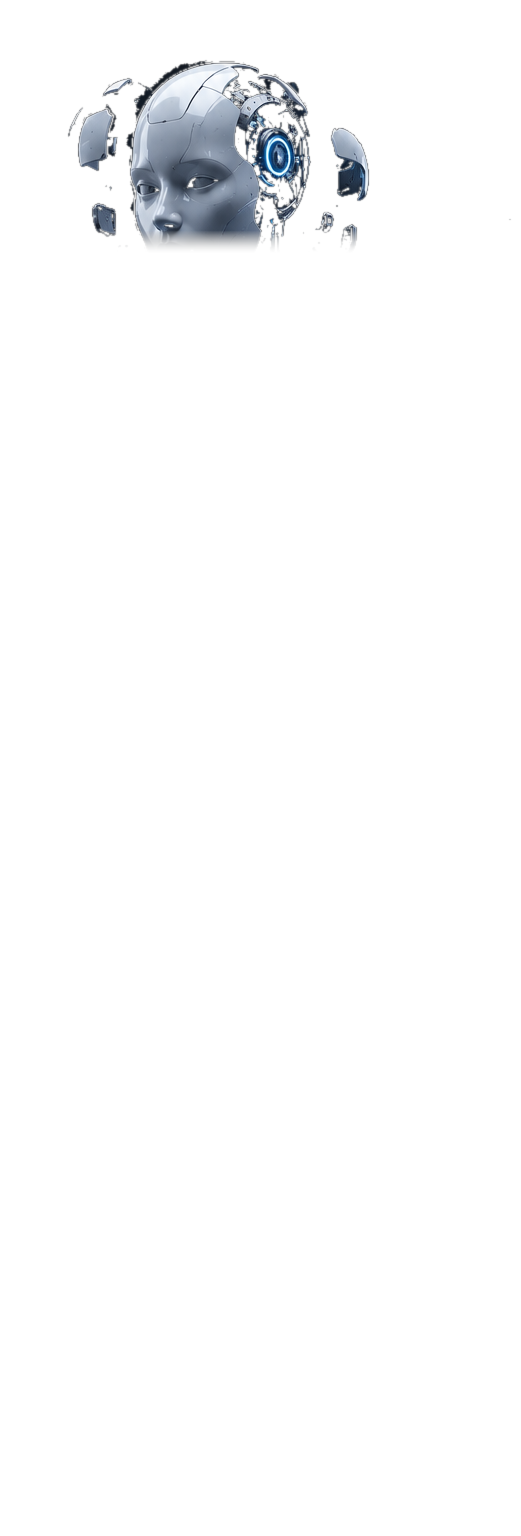
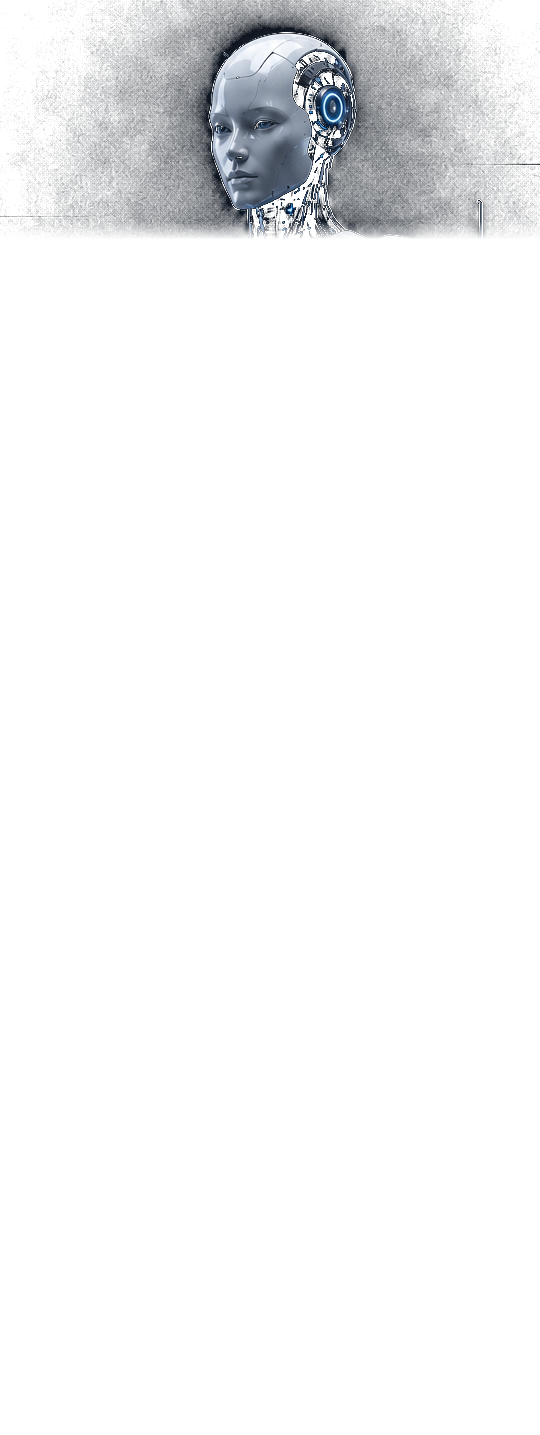
welcome(landing): rebuild agent assembly with standing-humanoid figure
- Replace exploded totem agent-solid.png with the OASIS AI standing
  humanoid reference (cropped + alpha-cut from ChatGPT 2026-05-24 render).
  Final lock state now shows the full body on the podium instead of a
  stacked column.
- Re-slice 10 anatomical PNG layers (head → podium) at 540x1435 native
  resolution, replacing the prior 521x1536 slices.
- Update PNG_W/PNG_H constants + LINK_SEGMENTS (spine, shoulders, hips,
  feet) + lock-in flash centre + shockwave centre + SYSTEM ONLINE pill
  position so all SVG overlays land on the new figure's anatomy.
- Re-tune scatter coords (10 layers, horizontal alternation, scale
  0.82-0.92) so parts read big and unique-quadrant — no overlap.
- Upgrade idle-drift to orbital ellipses (16/18px X/Y amplitude, two
  superimposed sine components) for "alive in zero-g" floating instead
  of metronomic sway.
- Bump figure stage to h-[min(88vh,860px)] min-h-[560px] (was h-[min(
  82vh,680px)]) so the full body fits without clipping legs.
- BUG FIX: split parallax motion.div from absolute-centered shell —
  framer-motion's style.x/y was overriding Tailwind's -translate-1/2,
  positioning the stage 396px low and clipping the figure's legs off
  the bottom of the viewport. Outer div now holds the centering classes
  (no inline style), inner motion.div holds the parallax. Both
  transforms compose cleanly.

Changed region(s): [[0.0614, 0.0, 1.0, 0.184], [0.0307, 0.092, 0.0614, 0.1226]]

diff --git a/components/landing/agent-assembly/AgentFigureSprite.tsx b/components/landing/agent-assembly/AgentFigureSprite.tsx
@@ -33,8 +33,10 @@ export const SPRITE_LAYER_COUNT = 10;
 
 // Source PNG dimensions — used as the SVG overlay viewBox so connection
 // lines and lock-in flashes share coordinate space with the figure.
-const PNG_W = 521;
-const PNG_H = 1536;
+// Updated 2026-05-24 — new figure is the OASIS AI standing humanoid
+// (cropped + alpha-cut from the May 24 ChatGPT reference, 540x1435).
+const PNG_W = 540;
+const PNG_H = 1435;
 
 const C = {
   primary: "#86efac",
@@ -56,17 +58,26 @@ type LayerSpec = {
 // PAINT ORDER: bottom (activation podium) → top (head). Z-stacking matches
 // the original photoreal slice order so foreground parts land last.
 // manifestIdx is the SUBSYSTEM order from MODULE_MANIFEST in the scene.
+//
+// SCATTER LAYOUT (rebuilt 2026-05-24 for new standing-humanoid figure):
+// Each slice gets HORIZONTAL displacement only (small ±Y for separation).
+// The figure is a tall narrow column; pushing slices SIDEWAYS off the body
+// reads cleaner than pushing them up/down (where they'd collide with the
+// next slice's dock anyway). X-offsets alternate L/R every step so adjacent
+// slices in the body chain go opposite directions — clear orbital read.
+// Scales 0.78-0.95 keep parts big and recognizable. Rotations ±13° give
+// the field life without anyone looking "tipped over".
 const LAYERS: LayerSpec[] = [
-  { file: "10-activation",      manifestIdx: 9, scatter: { x: -25,  y: 95,   rotate: -5,  scale: 0.7 } },
-  { file: "09-body-pelvis",     manifestIdx: 8, scatter: { x: -55,  y: -45,  rotate: -7,  scale: 0.45 } },
-  { file: "08-ethics-hip",      manifestIdx: 7, scatter: { x: 110,  y: 50,   rotate: 12,  scale: 0.65 } },
-  { file: "07-communication",   manifestIdx: 6, scatter: { x: -120, y: -25,  rotate: -11, scale: 0.6 } },
-  { file: "06-reasoning-torso", manifestIdx: 5, scatter: { x: 85,   y: 55,   rotate: 8,   scale: 0.55 } },
-  { file: "05-sensors",         manifestIdx: 4, scatter: { x: -135, y: 25,   rotate: -14, scale: 0.45 } },
-  { file: "04-memory-ring",     manifestIdx: 3, scatter: { x: 95,   y: -75,  rotate: 13,  scale: 0.6 } },
-  { file: "03-neural-disc",     manifestIdx: 2, scatter: { x: -65,  y: 40,   rotate: -6,  scale: 0.7 } },
-  { file: "02-neural-cube",     manifestIdx: 1, scatter: { x: 100,  y: -20,  rotate: 10,  scale: 0.55 } },
-  { file: "01-head",            manifestIdx: 0, scatter: { x: 55,   y: -115, rotate: 8,   scale: 0.5 } },
+  { file: "10-activation",      manifestIdx: 9, scatter: { x: -180, y: 60,   rotate: -6,  scale: 0.85 } }, // podium → bottom-left
+  { file: "09-body-pelvis",     manifestIdx: 8, scatter: { x: 200,  y: 40,   rotate: 8,   scale: 0.85 } }, // feet → bottom-right
+  { file: "08-ethics-hip",      manifestIdx: 7, scatter: { x: -210, y: -10,  rotate: -9,  scale: 0.88 } }, // calves → mid-bot-left
+  { file: "07-communication",   manifestIdx: 6, scatter: { x: 220,  y: 0,    rotate: 10,  scale: 0.90 } }, // thighs → mid-bot-right
+  { file: "06-reasoning-torso", manifestIdx: 5, scatter: { x: -220, y: 20,   rotate: -11, scale: 0.92 } }, // hips → mid-left
+  { file: "05-sensors",         manifestIdx: 4, scatter: { x: 230,  y: -10,  rotate: 12,  scale: 0.92 } }, // abdomen → mid-right
+  { file: "04-memory-ring",     manifestIdx: 3, scatter: { x: -210, y: -20,  rotate: -10, scale: 0.90 } }, // lower chest → upper-left
+  { file: "03-neural-disc",     manifestIdx: 2, scatter: { x: 200,  y: 30,   rotate: 11,  scale: 0.88 } }, // upper chest → upper-right
+  { file: "02-neural-cube",     manifestIdx: 1, scatter: { x: -160, y: 80,   rotate: -7,  scale: 0.82 } }, // neck → top-left (lower)
+  { file: "01-head",            manifestIdx: 0, scatter: { x: 170,  y: 70,   rotate: 9,   scale: 0.85 } }, // head → top-right (lower)
 ];
 
 // next/image sizes hint — the figure column never exceeds ~25vw on desktop.
@@ -214,15 +225,29 @@ function InstallLayer({
   const restRot = useTransform(installProgress, [0, 0.6, 1], [layer.scatter.rotate * 1.8, layer.scatter.rotate * 1.1, layer.scatter.rotate]);
   const restScale = useTransform(installProgress, [0, 0.6, 1], [layer.scatter.scale * 0.78, layer.scatter.scale * 1.04, layer.scatter.scale]);
 
-  // Continuous idle drift while scattered. Each fragment seeds its own sin
-  // phase from its scatter coordinates so all 10 pieces breathe on their
-  // own rhythm. Amplitudes are small enough to read as "alive in space",
-  // large enough to never appear frozen. Floating fades out as the fragment
-  // converges (multiplied by 1-c below).
+  // Continuous idle drift while scattered. Each fragment is given its own
+  // ORBITAL motion (small ellipse around its scatter dock) plus a vertical
+  // BOB on a different period — combination reads as "intelligent suspension
+  // in zero-g" instead of metronomic sway. Amplitudes scaled up from the
+  // previous build (9/11/2) so larger parts have proportional motion.
+  // Phase seeds derived from scatter coords so all 10 fragments breathe on
+  // independent rhythms. Float dampens to 0 as compaction approaches 1.
   const time = useTime();
-  const floatX = useTransform(time, (t) => Math.sin((t as number) / 1900 + layer.scatter.x * 0.06) * 9);
-  const floatY = useTransform(time, (t) => Math.cos((t as number) / 2300 + layer.scatter.y * 0.05) * 11);
-  const floatRot = useTransform(time, (t) => Math.sin((t as number) / 2700 + layer.scatter.rotate * 0.4) * 2);
+  const orbitPhaseX = (layer.scatter.x + 320) * 0.011; // unique phase per fragment
+  const orbitPhaseY = (layer.scatter.y + 400) * 0.014;
+  const bobPhase = layer.scatter.rotate * 0.35;
+  // Orbital X/Y traces a slow ellipse (period ~7.2s X / ~9.6s Y).
+  const floatX = useTransform(time, (t) =>
+    Math.sin((t as number) / 2400 + orbitPhaseX) * 16 + Math.cos((t as number) / 3700 + orbitPhaseY) * 6,
+  );
+  const floatY = useTransform(time, (t) =>
+    Math.cos((t as number) / 3000 + orbitPhaseY) * 18 + Math.sin((t as number) / 4100 + orbitPhaseX) * 7,
+  );
+  // Subtle counter-rotation that follows the orbit phase — fragment looks
+  // like it's drifting along its trajectory, not spinning in place.
+  const floatRot = useTransform(time, (t) =>
+    Math.sin((t as number) / 3400 + bobPhase) * 3.5,
+  );
 
   // Ease-in-out compaction lerp so the merger reads as mechanical, not linear.
   const c = useTransform(compactionProgress, (v) => {
@@ -349,18 +374,18 @@ type LinkSegment = {
 
 /**
  * Network of electric lines wiring subsystems together. Coordinates are
- * in PNG image space (521x1536). Anatomy estimates derived from the
- * agent-solid PNG layout: head ~y180, chest ~y490, hips ~y1080,
- * hands ~y820, platform ~y1480.
+ * in PNG image space (540x1435). Anatomy landmarks for the new standing
+ * humanoid: head ~y130, chest core ~y540, hips ~y800, hands ~y870,
+ * knees ~y1050, podium ~y1390. Lines wire spine + limbs together.
  */
 const LINK_SEGMENTS: LinkSegment[] = [
-  { d: "M 260 250 L 260 470", x1: 260, y1: 250, x2: 260, y2: 470, start: 0.18, end: 0.4 },   // head → chest
-  { d: "M 260 580 L 260 1080", x1: 260, y1: 580, x2: 260, y2: 1080, start: 0.25, end: 0.5 }, // chest → hips
-  { d: "M 220 540 L 110 830", x1: 220, y1: 540, x2: 110, y2: 830, start: 0.3, end: 0.6 },    // left torso → left hand
-  { d: "M 300 540 L 410 830", x1: 300, y1: 540, x2: 410, y2: 830, start: 0.3, end: 0.6 },    // right torso → right hand
-  { d: "M 110 830 L 210 1460", x1: 110, y1: 830, x2: 210, y2: 1460, start: 0.4, end: 0.72 },  // left hand → base
-  { d: "M 410 830 L 310 1460", x1: 410, y1: 830, x2: 310, y2: 1460, start: 0.4, end: 0.72 },  // right hand → base
-  { d: "M 260 1100 L 260 1470", x1: 260, y1: 1100, x2: 260, y2: 1470, start: 0.5, end: 0.82 }, // spine → platform
+  { d: "M 270 200 L 270 410",   x1: 270, y1: 200,  x2: 270, y2: 410,  start: 0.18, end: 0.4  }, // head → chest
+  { d: "M 270 540 L 270 800",   x1: 270, y1: 540,  x2: 270, y2: 800,  start: 0.25, end: 0.5  }, // chest core → hips
+  { d: "M 220 540 L 160 870",   x1: 220, y1: 540,  x2: 160, y2: 870,  start: 0.30, end: 0.6  }, // left shoulder → left hand
+  { d: "M 320 540 L 380 870",   x1: 320, y1: 540,  x2: 380, y2: 870,  start: 0.30, end: 0.6  }, // right shoulder → right hand
+  { d: "M 230 820 L 235 1300",  x1: 230, y1: 820,  x2: 235, y2: 1300, start: 0.40, end: 0.72 }, // left hip → left foot
+  { d: "M 310 820 L 305 1300",  x1: 310, y1: 820,  x2: 305, y2: 1300, start: 0.40, end: 0.72 }, // right hip → right foot
+  { d: "M 270 1300 L 270 1395", x1: 270, y1: 1300, x2: 270, y2: 1395, start: 0.50, end: 0.82 }, // feet → podium
 ];
 
 function CompactionLinks({
@@ -491,11 +516,12 @@ function LockInFlash({
   const r3 = useTransform(compactionProgress, [0.55, 1], [20, 420]);
   const o3 = useTransform(compactionProgress, [0.55, 0.8, 1], [0, 0.5, 0]);
   if (forceInstalled) return null;
+  // Heart of the figure ≈ chest core (light element) at (270, 540) in new PNG space.
   return (
     <g fill="none" filter="url(#hg-glow-soft)">
-      <motion.circle cx={260} cy={620} strokeWidth={4} stroke={C.primary} style={{ r: r1, opacity: o1 }} />
-      <motion.circle cx={260} cy={620} strokeWidth={3} stroke={C.accent} style={{ r: r2, opacity: o2 }} />
-      <motion.circle cx={260} cy={620} strokeWidth={3} stroke={C.warm} style={{ r: r3, opacity: o3 }} />
+      <motion.circle cx={270} cy={540} strokeWidth={4} stroke={C.primary} style={{ r: r1, opacity: o1 }} />
+      <motion.circle cx={270} cy={540} strokeWidth={3} stroke={C.accent} style={{ r: r2, opacity: o2 }} />
+      <motion.circle cx={270} cy={540} strokeWidth={3} stroke={C.warm} style={{ r: r3, opacity: o3 }} />
     </g>
   );
 }
@@ -518,8 +544,8 @@ function CenterShockwave({
   if (forceInstalled) return null;
   return (
     <motion.circle
-      cx={260}
-      cy={620}
+      cx={270}
+      cy={540}
       fill="none"
       stroke={C.primary}
       filter="url(#hg-glow-soft)"
@@ -545,7 +571,7 @@ function SystemOnlinePill({
   const PILL_W = 240;
   const PILL_H = 56;
   const PILL_X = (PNG_W - PILL_W) / 2;
-  const PILL_Y = 1480;
+  const PILL_Y = 1420;
   if (forceInstalled) {
     return (
       <g transform={`translate(${PILL_X} ${PILL_Y})`}>

diff --git a/components/landing/AgentAssemblyScrollScene.tsx b/components/landing/AgentAssemblyScrollScene.tsx
@@ -473,23 +473,40 @@ export function AgentAssemblyScrollScene() {
         {/* ───────── FIGURE STAGE ─────────
             Mobile: flex-1 region in the column, constrained to a phone-safe
             height so it never touches the heading or CTA.
-            Desktop: absolutely centered, original aspect-locked container. */}
-        <motion.div
+            Desktop: absolutely centered, original aspect-locked container.
+            BUG FIX 2026-05-24: parallax x/y on the centered element overrides
+            Tailwind's -translate-1/2 (framer-motion writes `transform:
+            translateX()` directly), so the stage was rendering 396px low and
+            its legs were clipped off the bottom of the viewport. Split into
+            an OUTER absolutely-centered shell (no parallax) and an INNER
+            motion.div that holds the parallax — both transforms now compose
+            cleanly. */}
+        <div
           aria-hidden="true"
           className="relative z-10 flex flex-1 items-center justify-center pt-2 min-[641px]:pointer-events-none min-[641px]:absolute min-[641px]:left-1/2 min-[641px]:top-1/2 min-[641px]:z-10 min-[641px]:flex-none min-[641px]:-translate-x-1/2 min-[641px]:-translate-y-1/2 min-[641px]:p-0"
-          style={{ x: parallaxX, y: parallaxY }}
         >
-          <div
-            className="relative flex aspect-[521/1536] w-[44vw] max-w-[200px] items-center justify-center min-[641px]:h-[min(82vh,680px)] min-[641px]:w-auto min-[641px]:max-w-none"
+          <motion.div
+            aria-hidden="true"
+            style={{ x: parallaxX, y: parallaxY }}
           >
-            <AgentFigureSprite
-              installProgresses={layerProgresses}
-              compactionProgress={compactionProgress}
-              forceInstalled={forceInstalled}
-              className="h-full w-full"
-            />
-          </div>
-        </motion.div>
+            {/* Figure stage — sized by HEIGHT (never width) so the full
+                standing humanoid always fits the viewport with breathing room.
+                Old version capped at 680px which clipped legs on shorter
+                windows; new uses 88vh (with floor) so the body fills the
+                screen vertically and the scattered fragments orbit
+                comfortably around it. */}
+            <div
+              className="relative flex aspect-[540/1435] w-[52vw] max-w-[230px] items-center justify-center min-[641px]:h-[min(88vh,860px)] min-[641px]:w-auto min-[641px]:max-w-none min-[641px]:min-h-[560px]"
+            >
+              <AgentFigureSprite
+                installProgresses={layerProgresses}
+                compactionProgress={compactionProgress}
+                forceInstalled={forceInstalled}
+                className="h-full w-full"
+              />
+            </div>
+          </motion.div>
+        </div>
 
         {/* ───────── PROGRESS + CTA ─────────
             Mobile: in-flow at the bottom of the column.
